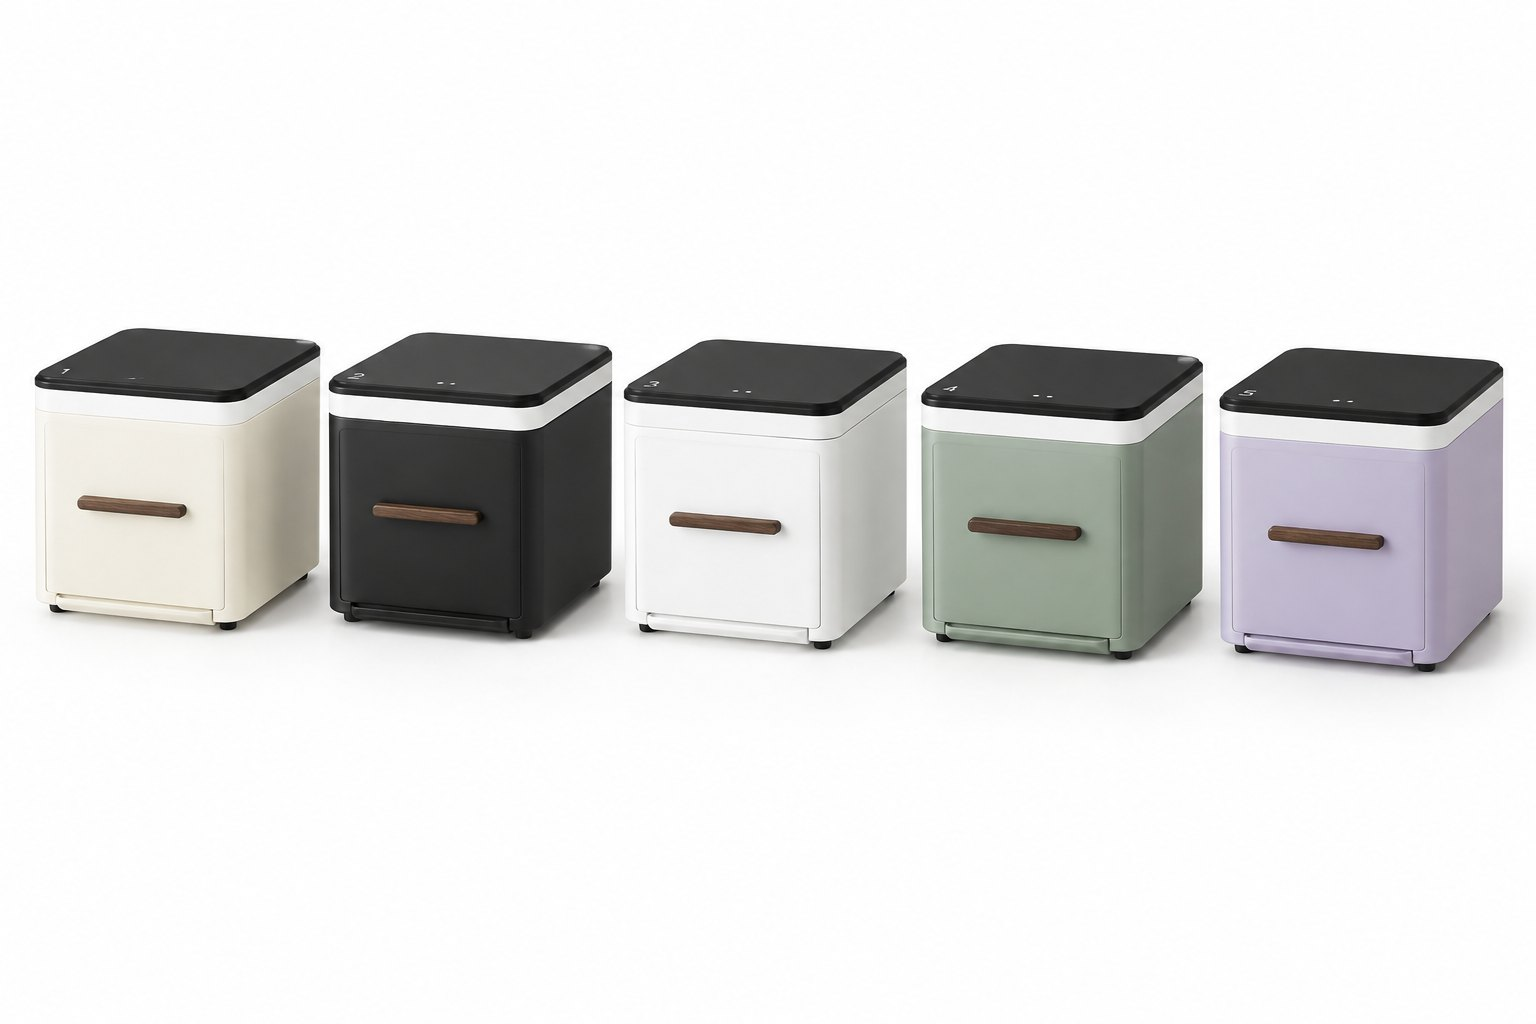
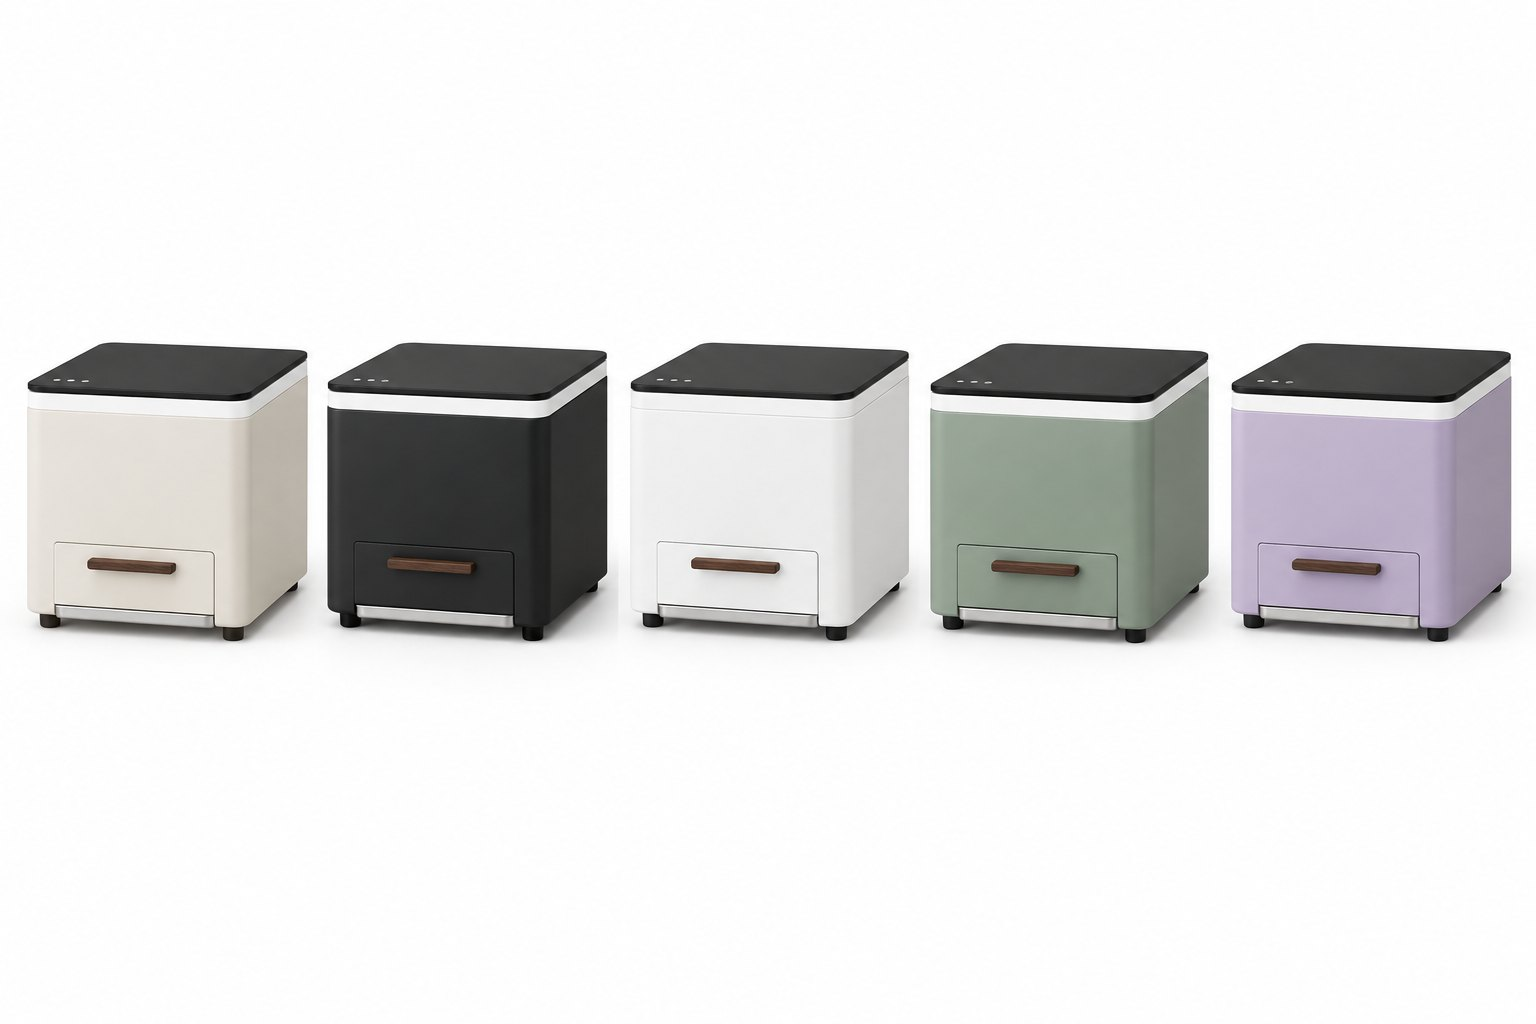
쌀참 r8b: 실사 4장 다시(open · family · touch · colors) — 서랍 앞판을 hero와 같은 아래쪽 작은 서랍(구조도 z 74~118)으로 통일 · open 은 밀판으로 올라온 떡뻥 · 3:2 · 구조 검토 옛 꺼내기 행 삭제

diff --git a/index.html b/index.html
@@ -1643,7 +1643,6 @@ footer .ver{font-size:9.5px;color:#b8b2a6;margin-left:10px}
       <tr><td><b>높이 적층</b></td><td>고무발 6 + 무게판 6 + 틀 바닥판 10 + 토글 · 모터 칸 22 + 열 상자 116 + 공기층 36 + 상판 4 = 200mm. 열 상자 안: 받침 57~69 · 피스톤 면 77 · 트레이 79~100(밀판 82~85) · 플러그 104.5~118 · 위 열판 118~132 · 윗보 132~154. 모터(Ø24 × 40)는 바닥 칸 오른쪽에 눕혀 두고, 기둥은 열 상자 바닥을 관통(단열 와셔).</td><td>성립</td><td>목업에서 배선 · 서랍 레일 두께</td></tr>
       <tr><td><b>폭 · 깊이</b></td><td>열 상자 132 + 공기층 2 × 10 + 껍데기 2 × 8 = 168 < 220 → 양쪽 26mm 여유(보드 · 모터 · 배선). 깊이는 덕트 12 + 열 상자 100 + 서랍 공기층 46 + 앞판 8 = 166 < 220. 서랍 행정 약 135mm(텔레스코픽 레일 · 트레이가 몸체 앞면 밖으로 다 나옴).</td><td>성립</td><td>—</td></tr>
       <tr><td><b>계량 · 넣기</b></td><td>3g ≈ 3.7cm³(마른 쌀 벌크 밀도 0.8) 계량 숟가락 하나. 기계 안에 계량 · 이송 장치가 없어 막힘 · 끼임 · 반복 정밀도 문제가 없습니다. 많이 넣으면(5g+) 플러그가 끝까지 안 들어가 두껍고 단단한 떡뻥 → 숟가락 깎아 담기 안내 + 토글 리밋으로 감지해 「쌀이 많아요」.</td><td>성립(설계 변경)</td><td>2 · 3 · 4 · 5g별 결과 · 리밋 감지</td></tr>
-      <tr><td><b>꺼내기</b></td><td>부푼 떡뻥 Ø6 × 8~10mm가 틀 안에 남습니다. 세라믹 코팅 + 틀 벽 1° 빼기 각 → 집게로 집으면 빠지고, 붙으면 트레이를 뒤집어 톡. 부스러기는 틀 안과 받침에.</td><td>조건부</td><td>100장 중 붙는 수 · 트레이 뒤집기 횟수</td></tr>
       <tr><td><b>넘어짐</b></td><td>바닥 220 × 220, 4.2kg(강철 틀 포함), 무게중심 높이 약 80mm → 전도각 약 54°. 서랍을 끝까지(135mm) 빼도 트레이 0.3kg 이 앞으로 나갈 뿐 무게중심은 바닥 안. 기울기 센서 15°에서 가열 차단.</td><td>성립</td><td>—</td></tr>
       <tr><td><b>수명</b></td><td>하루 10장 × 5년 ≈ 1.8만 사이클. 토글 핀 · 래치 스프링은 10만 사이클급, 시즈 히터 2년 보증. 트레이 코팅 마모는 트레이 교체(소모품). 서랍 레일 · 잠금 5만 회.</td><td>성립</td><td>가속 1만 사이클 뒤 틈 · 코팅 · 레일</td></tr>
       </table></div>

diff --git a/test/body_v7.html b/test/body_v7.html
@@ -325,7 +325,6 @@
       <tr><td><b>높이 적층</b></td><td>고무발 6 + 무게판 6 + 틀 바닥판 10 + 토글 · 모터 칸 22 + 열 상자 116 + 공기층 36 + 상판 4 = 200mm. 열 상자 안: 받침 57~69 · 피스톤 면 77 · 트레이 79~100(밀판 82~85) · 플러그 104.5~118 · 위 열판 118~132 · 윗보 132~154. 모터(Ø24 × 40)는 바닥 칸 오른쪽에 눕혀 두고, 기둥은 열 상자 바닥을 관통(단열 와셔).</td><td>성립</td><td>목업에서 배선 · 서랍 레일 두께</td></tr>
       <tr><td><b>폭 · 깊이</b></td><td>열 상자 132 + 공기층 2 × 10 + 껍데기 2 × 8 = 168 < 220 → 양쪽 26mm 여유(보드 · 모터 · 배선). 깊이는 덕트 12 + 열 상자 100 + 서랍 공기층 46 + 앞판 8 = 166 < 220. 서랍 행정 약 135mm(텔레스코픽 레일 · 트레이가 몸체 앞면 밖으로 다 나옴).</td><td>성립</td><td>—</td></tr>
       <tr><td><b>계량 · 넣기</b></td><td>3g ≈ 3.7cm³(마른 쌀 벌크 밀도 0.8) 계량 숟가락 하나. 기계 안에 계량 · 이송 장치가 없어 막힘 · 끼임 · 반복 정밀도 문제가 없습니다. 많이 넣으면(5g+) 플러그가 끝까지 안 들어가 두껍고 단단한 떡뻥 → 숟가락 깎아 담기 안내 + 토글 리밋으로 감지해 「쌀이 많아요」.</td><td>성립(설계 변경)</td><td>2 · 3 · 4 · 5g별 결과 · 리밋 감지</td></tr>
-      <tr><td><b>꺼내기</b></td><td>부푼 떡뻥 Ø6 × 8~10mm가 틀 안에 남습니다. 세라믹 코팅 + 틀 벽 1° 빼기 각 → 집게로 집으면 빠지고, 붙으면 트레이를 뒤집어 톡. 부스러기는 틀 안과 받침에.</td><td>조건부</td><td>100장 중 붙는 수 · 트레이 뒤집기 횟수</td></tr>
       <tr><td><b>넘어짐</b></td><td>바닥 220 × 220, 4.2kg(강철 틀 포함), 무게중심 높이 약 80mm → 전도각 약 54°. 서랍을 끝까지(135mm) 빼도 트레이 0.3kg 이 앞으로 나갈 뿐 무게중심은 바닥 안. 기울기 센서 15°에서 가열 차단.</td><td>성립</td><td>—</td></tr>
       <tr><td><b>수명</b></td><td>하루 10장 × 5년 ≈ 1.8만 사이클. 토글 핀 · 래치 스프링은 10만 사이클급, 시즈 히터 2년 보증. 트레이 코팅 마모는 트레이 교체(소모품). 서랍 레일 · 잠금 5만 회.</td><td>성립</td><td>가속 1만 사이클 뒤 틈 · 코팅 · 레일</td></tr>
       </table></div>

diff --git a/README.md b/README.md
@@ -13,6 +13,7 @@
 - r6: 칩 모드 넣는 길을 떡뻥과 같게 — 반죽은 칩 카세트(짜는 통 + 넓은 컵 8g, ⑫ 자리에 갈아 끼움) → 계량 슬라이드 → 같은 몰드 링 가운데 → 같은 슬롯 배출. 「칩 몰드(접시)」 삭제 · 앞문은 씻을 때만 · 「열선」 → 「히터」. 본문 편집 test/edit_v6.py.
 - r7(2026-11-25): 몰드 서랍 구조 — 카세트 · 깔때기 · 계량 컵 · 슬라이드 · 배출 슬롯 · 플랩 · 트레이 · 앞문 삭제. 마른 쌀 3g을 ⑫ 계량 숟가락으로 ⑥ 서랍 트레이(Ø6 오목 틀 15mm)에 넣고 밀어 넣음 → ⑤ 피스톤이 트레이째 20mm 올려 ⑦ 플러그(Ø59)가 13.5mm 들어가 누름 → 8~10mm 순간 하강(두께 8~10mm) → 천천히 → 서랍 잠금 해제 → 빼서 꺼냄. ⑬ ㅁ자 강철 틀(힘 길) · ⑧ 뒤 벽 김 구멍 → ⑩ 덕트 → 슬릿(김 길) · 칩 모드는 다음 단계. 2.5D test/gen_iso_v7.py · 본문 test/body_v7.html + edit_v7.py · 3D explode.js v7. 실사는 서랍 구조로 3장 새로(Figma 세션 7b255e22 노드 5:2~5:4 · img/photo_{hero,open,family}.jpg · 원본 out/v7/), 옛 8장 삭제.
 - r7b(2026-11-25): 구조 검토 보강 — 윗보 12 × 40 → 12 × 80 눕힌 강판(열 상자 천장까지 12mm뿐이라 세우는 대신 폭으로 · 굽힘 105 → 약 52MPa · 처짐 0.03mm) · 기둥은 인장 · 바닥판은 무게판과 합체(약 30MPa) · 서랍 안쪽 단열판 테두리 실리콘 개스킷(단면 · 동작 ② · 분해 · 3D · 사양 · 김 행) · ⑫ 계량 겸 펴개 숟가락(납작한 끝 폭 = 틀 Ø60 · 한 겹 = 바닥 2/3) · 벤치 「봉지 그대로 vs 물 살짝」 · 떡뻥 두께 = 틈 8~10 + 쌀 층 ≈ 9~11mm · 분해도 viewBox 1250(라벨 잘림 해결). 스크립트 test/edit_v7b.py.
+- r8b(2026-11-25): 실사 4장 다시(open · family · touch · colors, Figma 세션 28afefe1 노드 9:7~9:10 · 원본 out/v8b/*32.png) — 서랍 앞판을 hero · spoon · wash 와 같은 「아래쪽 작은 서랍(앞면 높이의 약 1/5 = 구조도 z 74~118)」으로 통일 · open 은 밀판으로 올라온 떡뻥 · 숫자 2자리 · 모두 3:2. 구조 검토의 옛 「꺼내기」 행(집게로 집으면 빠짐 · 8~10mm) 삭제 → r8 밀판 행 하나만.
 - r8(2026-11-25): 두팔 r7 구조 검토 3개 — ① 꺼내기: 틀 바닥 = 밀판 Ø58 × 3(뒤쪽 핀 2mm 돌출), 서랍을 끝까지 빼면 몸체 앞 레일 밑 고정 경사판이 핀을 12mm 올려 떡뻥 뒤가 틀 위로(가운데 핀은 끝까지 뺀 트레이 가운데가 몸체 밖이라 불가 → 뒤 핀) · 받침 57..69 · 피스톤 69..77 · 트레이 79..100 · 텔레스코픽 레일 ② 윗보 40 × 22 세움(열 상자 10mm 키움 · 안 50..154 · 공기층 36) 굽힘 약 31MPa · 처짐 0.01 · 바닥판 10t(무게판 6) ③ 실사 open 사진 hero 와 같은 서랍 앞판 + 밀판으로 올라온 떡뻥(Figma 7:2). 편집 test/edit_v8.py.
 - r7(2026-11-25): 몰드 서랍 구조 — 카세트 · 깔때기 · 계량 컵 · 슬라이드 · 배출 슬롯 · 플랩 · 트레이 · 앞문 삭제. 마른 쌀 3g을 ⑫ 계량 숟가락으로 ⑥ 서랍 트레이(Ø6 오목 틀 15mm)에 넣고 밀어 넣음 → ⑤ 피스톤이 트레이째 20mm 올려 ⑦ 플러그(Ø59)가 13.5mm 들어가 누름 → 8~10mm 순간 하강(두께 8~10mm) → 천천히 → 서랍 잠금 해제 → 빼서 꺼냄. ⑬ ㅁ자 강철 틀(힘 길) · ⑧ 뒤 벽 김 구멍 → ⑩ 덕트 → 슬릿(김 길) · 칩 모드는 다음 단계. 2.5D test/gen_iso_v7.py · 본문 test/body_v7.html + edit_v7.py · 3D explode.js v7. 실사는 서랍 구조로 3장 새로(Figma 세션 7b255e22 노드 5:2~5:4 · img/photo_{hero,open,family}.jpg · 원본 out/v7/), 옛 8장 삭제.
 - r7c(2026-11-25): 실사 6장 새로(Figma 세션 0709e0f4 노드 6:2 hero · 6:8 spoon · 6:9 touch · 6:5 wash · 6:6 colors · 6:7 menu · 원본 out/v7b/) — 05 사용 사진 3장(spoon · touch · open) · 04 디자인 5색 · 08 레시피 메뉴 · 11 세척 싱크대. 옛 hero 는 서랍이 앞면 전체라 교체. 본문 치환 out/v7b/edit_v7c.py.
